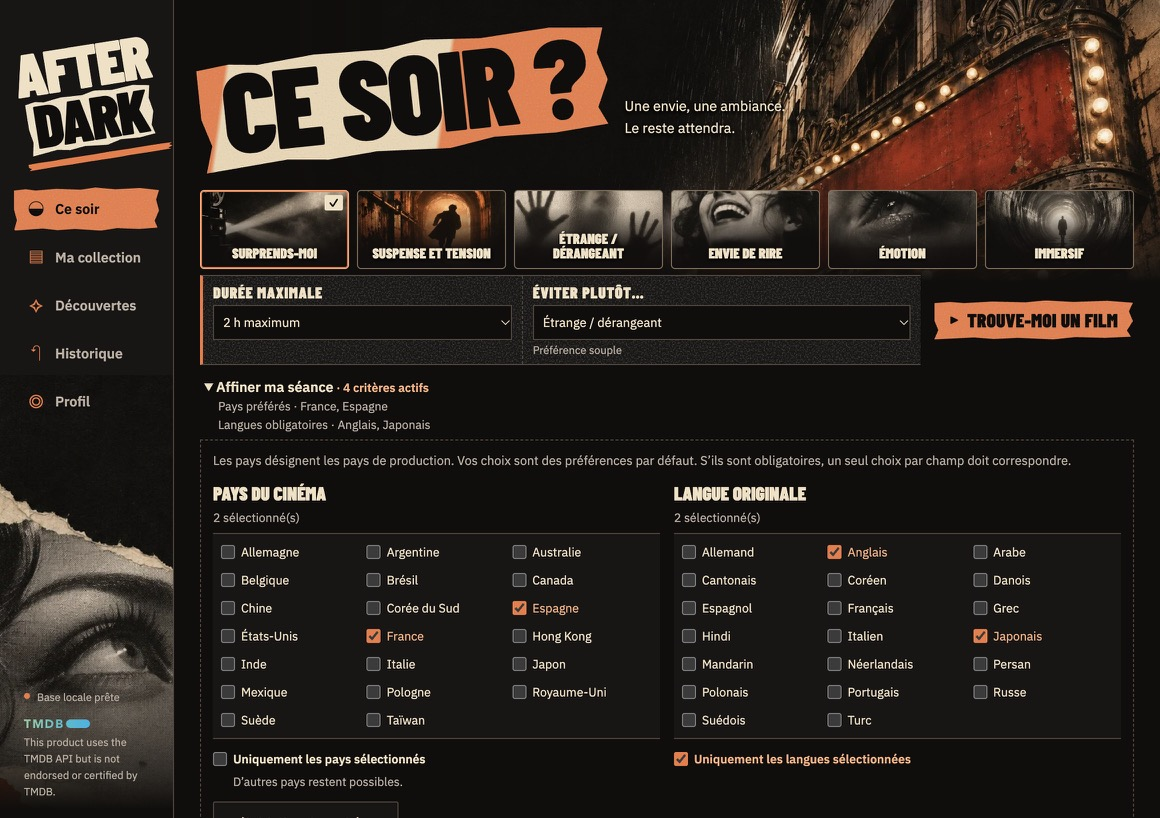
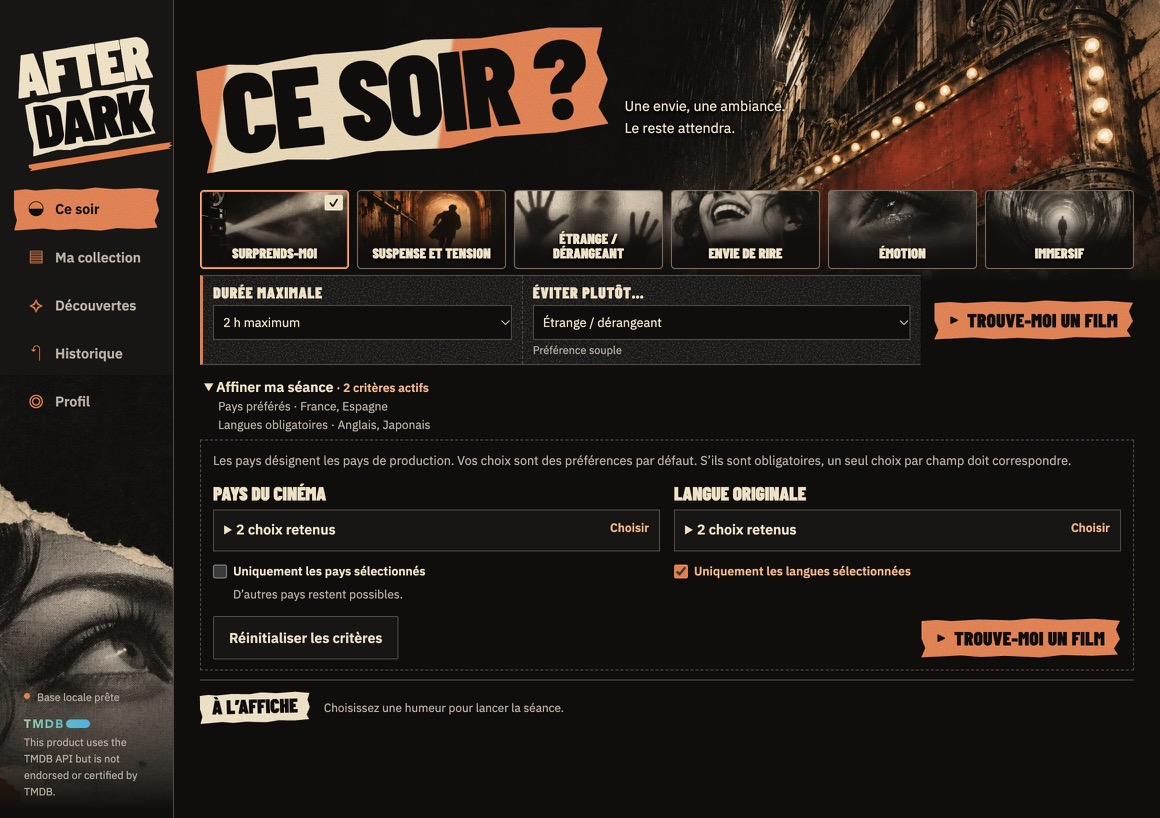
Compact advanced session filters and add panel submit

diff --git a/src/renderer/controls.tsx b/src/renderer/controls.tsx
@@ -38,15 +38,19 @@ function FilterChoices({ label, all, requiredLabel, preferenceHelp, options, sel
 }) {
   return <fieldset className="filter-choices" disabled={busy}>
     <legend>{label}</legend>
-    <p>{selected.length === 0 ? all : `${selected.length} sélectionné(s)`}</p>
-    <div className="filter-options">
-      {Object.entries(options).map(([code, name]) => <label key={code}>
-        <input type="checkbox" checked={selected.includes(code)} onChange={(event) => {
-          onSelect(event.target.checked ? [...selected, code] : selected.filter((item) => item !== code));
-        }} />
-        {name}
-      </label>)}
-    </div>
+    <details className="filter-picker" name="session-geography">
+      <summary>{selected.length === 0 ? all : `${selected.length} ${selected.length === 1 ? "choix retenu" : "choix retenus"}`}
+        <span>Choisir</span>
+      </summary>
+      <div className="filter-options">
+        {Object.entries(options).map(([code, name]) => <label key={code}>
+          <input type="checkbox" checked={selected.includes(code)} onChange={(event) => {
+            onSelect(event.target.checked ? [...selected, code] : selected.filter((item) => item !== code));
+          }} />
+          {name}
+        </label>)}
+      </div>
+    </details>
     <label className="filter-required">
       <input type="checkbox" checked={required} disabled={!selected.length} onChange={(event) => onRequire(event.target.checked)} />
       {requiredLabel}
@@ -59,7 +63,7 @@ export function FilterPanel({ busy, value, onChange, action }: {
   busy: boolean; value: SessionFilters; onChange: (value: SessionFilters) => void; action?: ReactNode;
 }) {
   const { duration, avoid, countries: selectedCountries, languages: selectedLanguages, countriesRequired, languagesRequired } = value;
-  const active = Number(!!duration) + Number(!!avoid) + Number(!!selectedCountries.length) + Number(!!selectedLanguages.length);
+  const active = Number(selectedCountries.length > 0) + Number(selectedLanguages.length > 0);
 
   return <>
     <fieldset className="session-ticket" disabled={busy} aria-label="Réglages rapides">
@@ -100,8 +104,11 @@ export function FilterPanel({ busy, value, onChange, action }: {
             onSelect={(selected) => onChange({ ...value, languages: selected, languagesRequired: !!selected.length && languagesRequired })}
             onRequire={(required) => onChange({ ...value, languagesRequired: required })} />
         </div>
-        <button type="button" className="button button-quiet filter-reset" disabled={busy}
-          onClick={() => onChange(defaultFilters)}>Réinitialiser les critères</button>
+        <div className="filter-footer">
+          <button type="button" className="button button-quiet filter-reset" disabled={busy}
+            onClick={() => onChange(defaultFilters)}>Réinitialiser les critères</button>
+          {action}
+        </div>
       </div>
     </details>
   </>;

diff --git a/src/renderer/style.css b/src/renderer/style.css
@@ -204,10 +204,12 @@ summary:hover { color: var(--focus); }
 .geography { display: grid; grid-template-columns: repeat(2, minmax(0, 1fr)); gap: 14px; }
 .filter-choices { min-width: 0; }
 .filter-choices legend { font: 900 1.35rem/1.2 var(--display); text-transform: uppercase; }
-.filter-choices p { margin: 4px 0 6px; color: var(--muted); font-size: .86rem; }
+.filter-picker { margin-top: 5px; border: 1px solid var(--border); background: var(--surface); }
+.filter-picker > summary { width: 100%; min-height: 40px; padding: 8px 10px; }
+.filter-picker > summary span { float: right; margin-inline-start: 8px; color: var(--focus); font-size: .86rem; }
 .filter-options {
   display: grid; grid-template-columns: repeat(auto-fit, minmax(min(100%, 104px), 1fr)); gap: 0 6px;
-  padding: 4px 8px; border-block: 1px solid var(--border); background: var(--surface);
+  max-height: 11rem; overflow: auto; padding: 4px 8px; border-top: 1px solid var(--border);
 }
 .filter-choices label { display: flex; align-items: center; gap: 6px; min-height: 28px; font-size: .87rem; }
 .filter-choices label:has(input:checked) { color: var(--focus); }
@@ -215,7 +217,8 @@ summary:hover { color: var(--focus); }
 .filter-choices .filter-required { margin-top: 6px; font-weight: 600; }
 .filter-help { display: block; margin-inline-start: 20px; color: var(--muted); font-size: .85rem; }
 .filter-required:has(input:disabled) { color: var(--muted); }
-.filter-reset { margin-top: 10px; min-height: 34px; }
+.filter-footer { display: flex; flex-wrap: wrap; align-items: center; justify-content: space-between; gap: 8px; margin-top: 12px; }
+.filter-reset { min-height: 36px; }
 
 .results { margin-top: 12px; }
 .results-header { display: flex; flex-wrap: wrap; align-items: center; gap: 5px 14px; margin-bottom: 9px; }

diff --git a/tests/renderer.test.ts b/tests/renderer.test.ts
@@ -60,6 +60,18 @@ describe("Interface Neon Underground", () => {
     expect(html).not.toContain("Énergie disponible");
   });
 
+  it("compte les filtres avancés uniquement et propose deux boutons de soumission", () => {
+    const action = createElement("button", { type: "submit" }, "Trouve-moi un film");
+    const render = (value: typeof defaultFilters) =>
+      renderToStaticMarkup(createElement(FilterPanel, { value, busy: false, onChange() {}, action }));
+    const quickOnly = { ...defaultFilters, duration: "120", avoid: "tension" };
+    const html = render(quickOnly);
+    expect(html).not.toContain("critère actif");
+    expect(html.match(/<details class="filter-picker" name="session-geography">/g)).toHaveLength(2);
+    expect(html.match(/type="submit"/g)).toHaveLength(2);
+    expect(render({ ...quickOnly, countries: ["FR", "ES"], languages: ["es"] })).toContain("2 critères actifs");
+  });
+
   it("indique que choisir l’Argentine comme préférence laisse les autres pays possibles", () => {
     const html = renderToStaticMarkup(createElement(FilterPanel, {
       value: { ...defaultFilters, countries: ["AR"] }, busy: false, onChange() {},

diff --git a/README.md b/README.md
@@ -80,7 +80,7 @@ Le [prototype « Ce soir » validé](docs/prototypes/ce-soir/README.md) guide la
 
 Les captures proviennent d’une session Electron macOS avec une base de test isolée et des affiches réelles mises en cache. La sélection est calculée par le moteur. À 520 px, la capture après recherche montre la partie résultats de la fenêtre.
 
-- **Ce soir** affiche les humeurs, les filtres et les recommandations. Choisissez un plafond de durée et, si besoin, une ambiance à éviter. Dans **Affiner ma séance**, cochez un ou plusieurs pays de production ou langues originales. France et Espagne font partie du même sélecteur de pays. Les choix sont souples par défaut. Activez **Uniquement les pays sélectionnés** ou **Uniquement les langues sélectionnées** pour limiter les résultats à l’un des choix cochés. Le résumé reste visible panneau fermé et **Réinitialiser les critères** efface les réglages secondaires en gardant l’humeur.
+- **Ce soir** affiche les humeurs, les filtres et les recommandations. Choisissez un plafond de durée et, si besoin, une ambiance à éviter. Dans **Affiner ma séance**, ouvrez le sélecteur de pays de production ou de langue originale, puis cochez vos choix. Vous pouvez lancer la recherche directement en bas du panneau. France et Espagne font partie du même sélecteur de pays. Les choix sont souples par défaut. Activez **Uniquement les pays sélectionnés** ou **Uniquement les langues sélectionnées** pour limiter les résultats à l’un des choix cochés. Le résumé reste visible panneau fermé et **Réinitialiser les critères** efface les réglages secondaires en gardant l’humeur.
 - **Ma collection** montre les compteurs et favoris. Le détail du catalogue est à venir.
 - **Profil** réunit l’import JSON, le rapport et la progression de l’enrichissement.
 - **Découvertes** et **Historique** indiquent les vues à venir. Découvertes donne accès à la sélection courante dans Ce soir.
